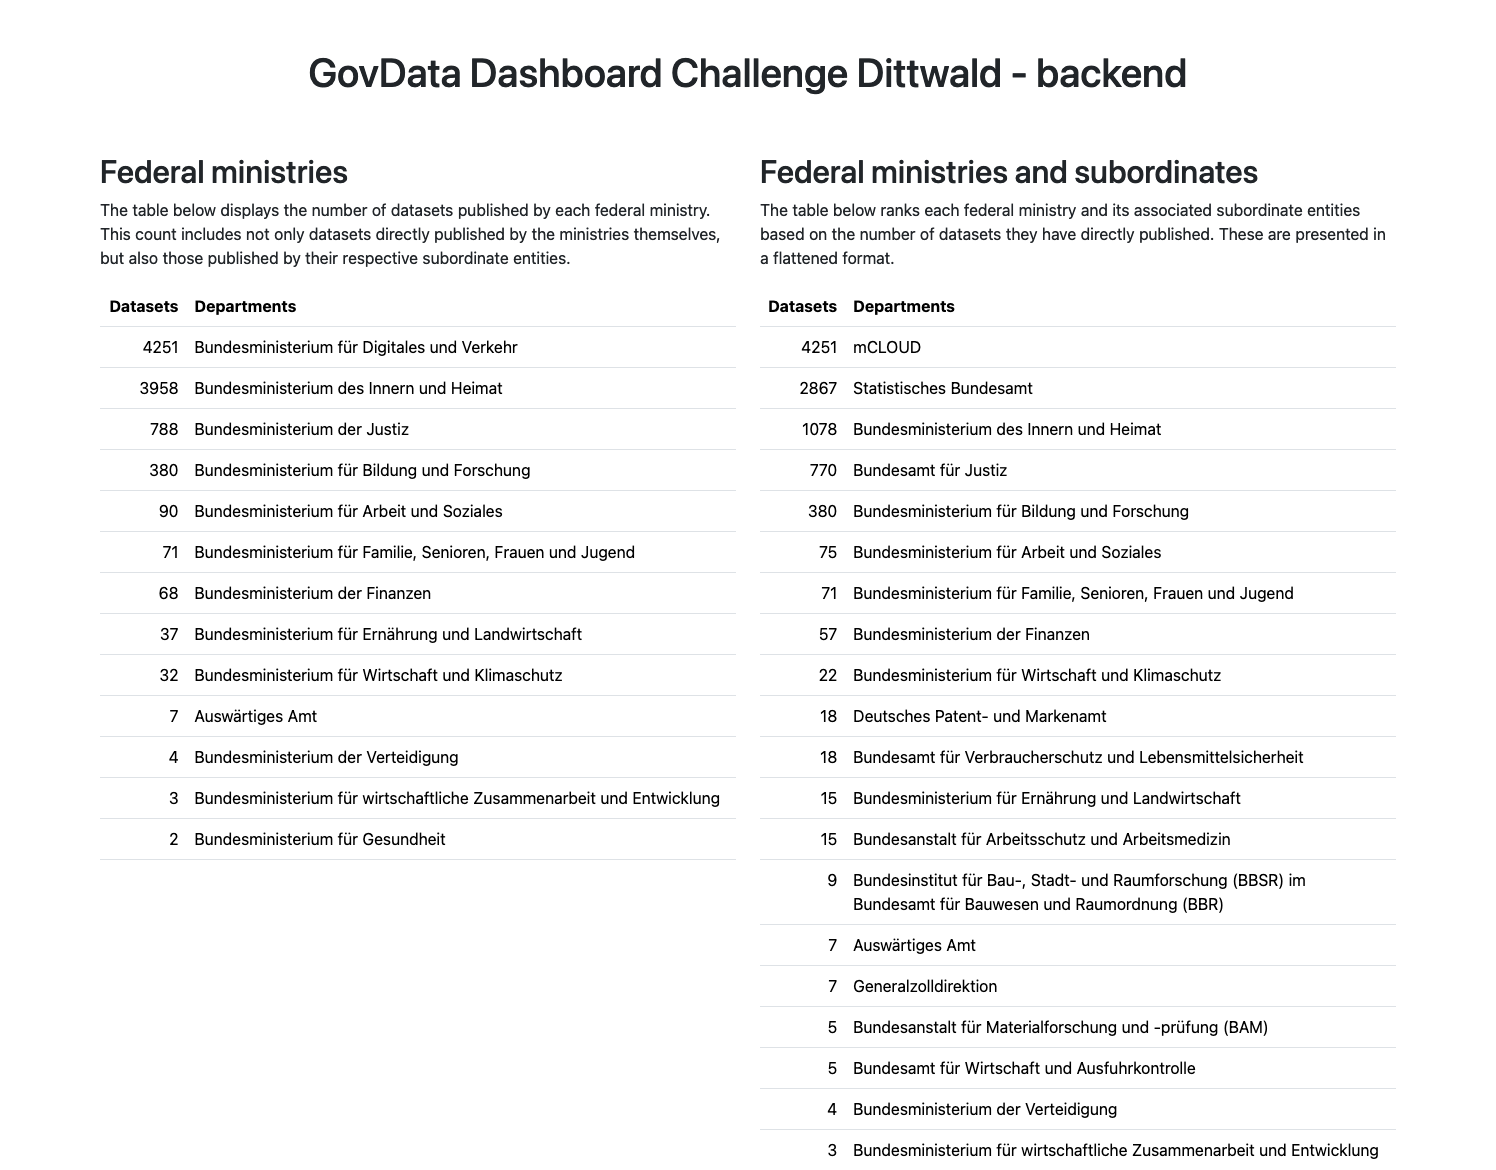
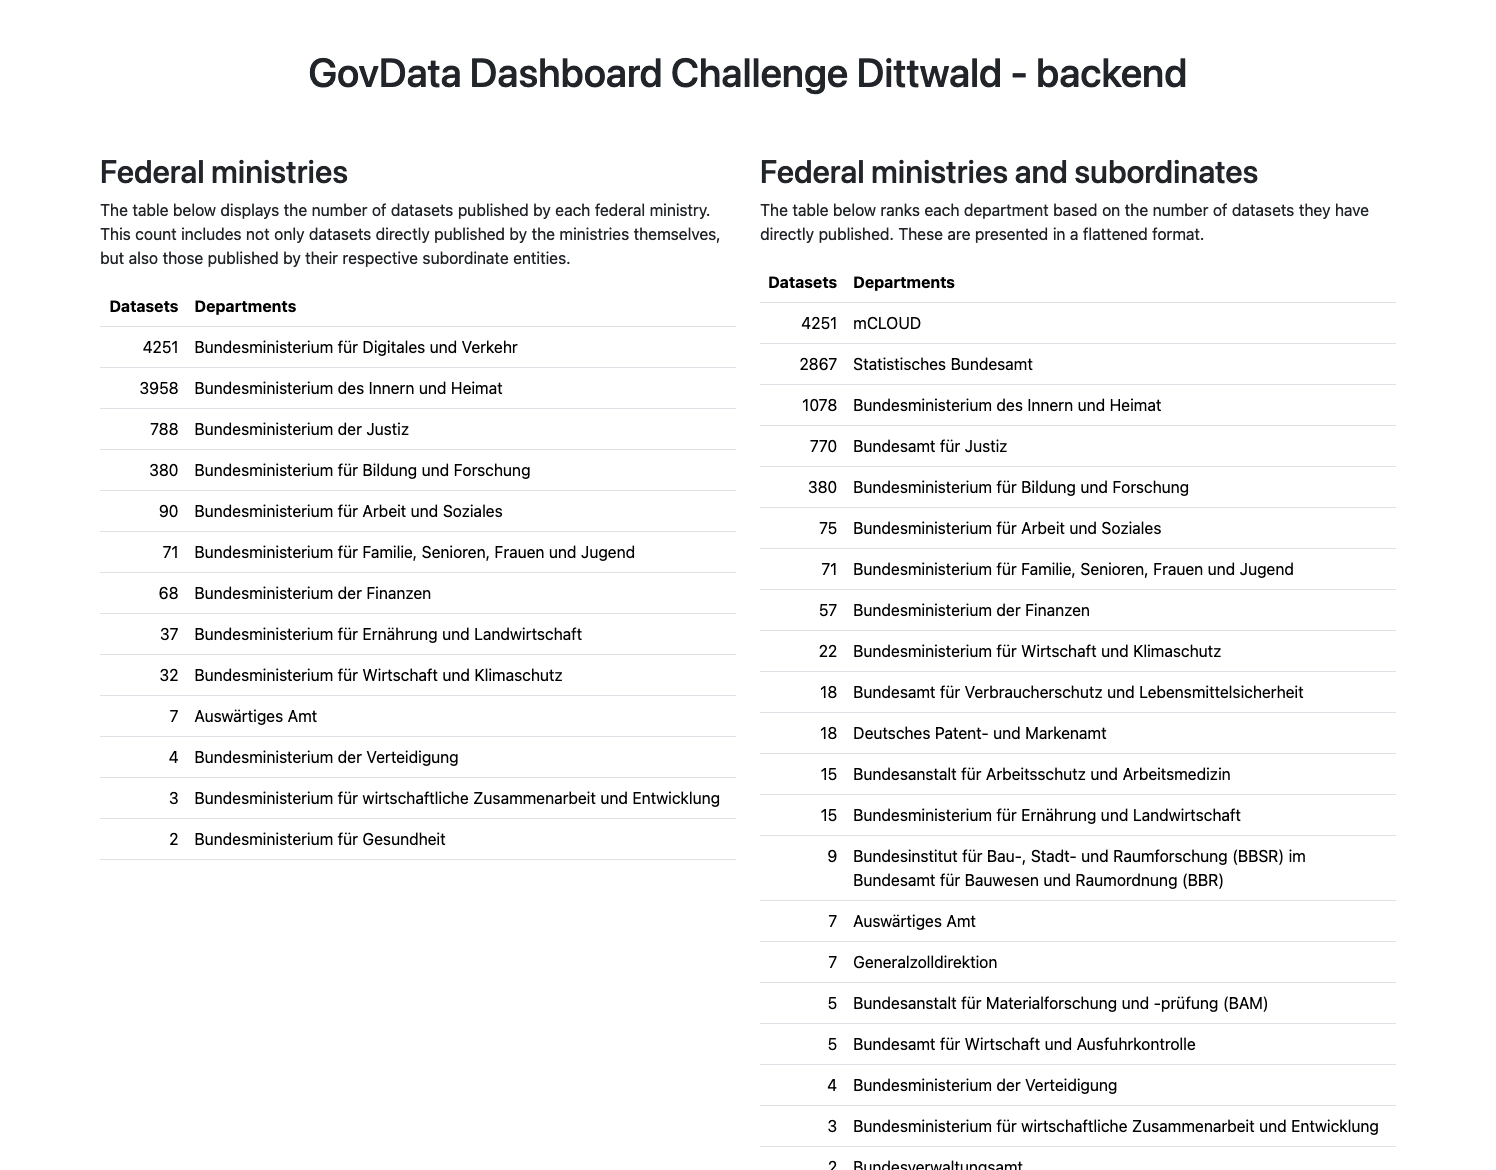
Introduced Docker section to the readme. Updated the screenshot.

Changed region(s): [[0.492, 0.1538, 0.9225, 1.0]]

diff --git a/README.md b/README.md
@@ -4,12 +4,39 @@ A small web application that provides a dashboard showing how many data sets eac
 
 ![A screenshot of the dashboard](assets/img/dashboard_screenshot.png)
 
+
+# Run with Docker
+
+A Docker image with the dashboard application is registered at gitlab.com. This section describes how to pull and run it via Docker.
+
+## Prerequisites
+
+Install Docker 25.0.3. Older version might work as well, but were not tested.
+
+## Pull and run
+
+Pull the image from gitlab.com:
+
+```
+docker pull registry.gitlab.com/benjamin.dittwald/digitalservice-govdata-challenge-backend
+```
+
+Run the image:
+
+```
+docker run -p 8080:8080 registry.gitlab.com/benjamin.dittwald/digitalservice-govdata-challenge-backend
+```
+
+## Test it
+
+Browse the application at [http://localhost:8080/](http://localhost:8080/).
+
 # How to build and run
 
 ## Prerequisites
 
-## Configure
-
 ## Build
 
 ## Run
+
+## Test it
